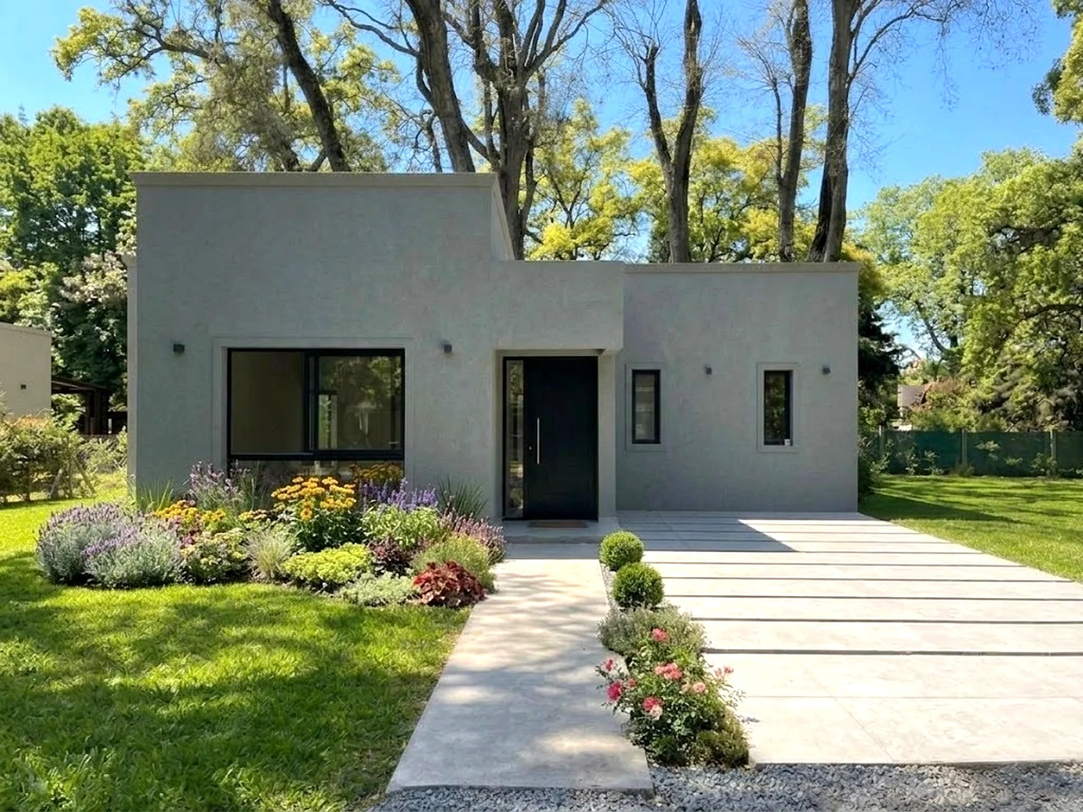
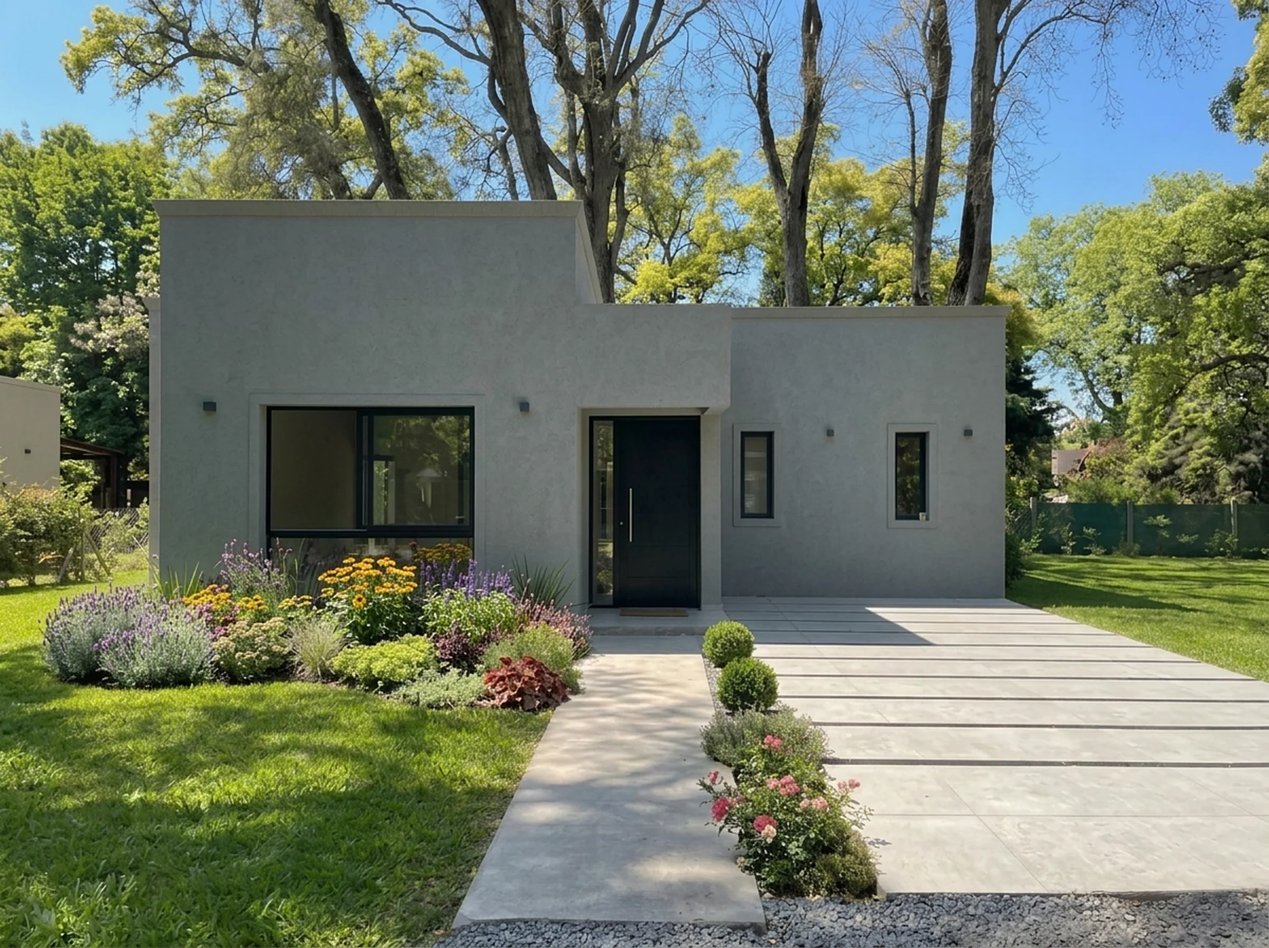
Portada nueva a pantalla completa, foto del equipo con cargos y fotos más nítidas
- Portada: frase en Montserrat fina, 7 fotos que se deslizan al costado y quedan fijas mientras sube la sección de proyectos
- Quiénes somos: foto de los tres fundadores con nombres y cargos
- UF 4 y UF 8: frentes en alta resolución

diff --git a/css/styles.css b/css/styles.css
@@ -51,6 +51,7 @@ body {
     color: var(--ink);
     line-height: 1.6;
     overflow-x: hidden;
+    overflow-x: clip;   /* corta lo que sobresale sin volverse contenedor de scroll (si no, las fotos fijas de la portada no funcionan) */
     -webkit-font-smoothing: antialiased;
 }
 h1, h2, h3, h4 {
@@ -216,9 +217,22 @@ button { font-family: inherit; }
 
 /* === PORTADA === */
 .hero { position: relative; min-height: min(92vh, 900px); display: flex; align-items: flex-end; color: #fff; overflow: hidden; background: var(--night); }
+/* el inicio ocupa la pantalla entera y queda quieto (fotos y texto): al bajar, la sección de
+   proyectos sube por encima y lo va tapando, así se siguen viendo las casas un tramo más */
+.hero-home { position: sticky; top: 0; z-index: 0; min-height: 0; height: 100vh; height: 100svh; padding: 0; }
+.inicio-capas > .section-proyectos { position: relative; z-index: 1; background: var(--paper); border-radius: 22px 22px 0 0; box-shadow: 0 -18px 40px rgba(10, 10, 10, .22); }
 .hero-bg, .hero-slide { position: absolute; inset: 0; background-size: cover; background-position: center 42%; }
-.hero-slide { opacity: 0; transition: opacity 1.4s ease; }
+.hero-slide { opacity: 0; transition: opacity 1.6s ease; filter: var(--tono, none); }   /* --tono: iguala la luz de cada foto para que la portada se vea pareja, como un video */
 .hero-slide.active { opacity: 1; }
+/* portada del inicio: cada foto se desliza despacio hacia el costado mientras se ve, como un video,
+   y cruza a la siguiente (el script le pone la clase "mov" en su turno); una va y la otra vuelve */
+@media (prefers-reduced-motion: no-preference) {
+    .hero-home .hero-slide { inset: 0 -3%; will-change: transform; }
+    .hero-home .hero-slide.mov { animation: hero-pan 8s linear forwards; }
+    .hero-home .hero-slide.mov:nth-child(even) { animation-name: hero-pan-vuelta; }
+}
+@keyframes hero-pan { from { transform: translateX(-2.2%); } to { transform: translateX(2.2%); } }
+@keyframes hero-pan-vuelta { from { transform: translateX(2.2%); } to { transform: translateX(-2.2%); } }
 .hero-overlay { position: absolute; inset: 0; background: linear-gradient(90deg, rgba(10,10,10,.5) 0%, rgba(10,10,10,.15) 45%, rgba(10,10,10,0) 70%), linear-gradient(180deg, rgba(10,10,10,.45) 0%, rgba(10,10,10,.05) 30%, rgba(10,10,10,.25) 55%, rgba(10,10,10,.85) 100%); }
 /* portada del barrio: la vista aérea es muy clara (calle de piedras), el velo es más fuerte del lado del texto */
 .hero-aereo .hero-overlay { background: linear-gradient(90deg, rgba(10,10,10,.78) 0%, rgba(10,10,10,.5) 45%, rgba(10,10,10,.12) 80%), linear-gradient(180deg, rgba(10,10,10,.5) 0%, rgba(10,10,10,.1) 30%, rgba(10,10,10,.3) 60%, rgba(10,10,10,.85) 100%); }
@@ -229,6 +243,8 @@ button { font-family: inherit; }
 .hero-tag::before { content: ''; width: 28px; height: 2px; background: currentColor; }
 .hero-title { font-size: clamp(42px, 8vw, 108px); font-weight: 800; letter-spacing: -.02em; line-height: .95; text-transform: uppercase; margin-bottom: 26px; }
 .hero-title em { color: rgba(255,255,255,.62); }
+/* portada del inicio: una sola frase en tamaño medio, como titular (sin mayúsculas) */
+.hero-title.hero-frase { max-width: 18em; font-size: clamp(25px, 3.5vw, 48px); font-weight: 400; letter-spacing: -.01em; line-height: 1.18; text-transform: none; margin-bottom: 34px; }
 .hero-sub { font-size: clamp(16px, 1.6vw, 19px); color: #ECEBE8; max-width: 46ch; margin-bottom: 34px; }
 .hero-btns { display: flex; gap: 12px; flex-wrap: wrap; }
 .hero .btn-primary { background: #fff; color: var(--ink); }
@@ -313,10 +329,17 @@ section { padding: 110px 0; }
 
 /* Nosotros */
 /* arriba el título a la izquierda y el texto a la derecha; abajo la foto del equipo a todo el ancho y los datos */
-.nosotros-foto { position: relative; margin: 44px 0 0; aspect-ratio: 5 / 2; border-radius: var(--radius); overflow: hidden; background: var(--sand); }
-.nosotros-foto img { width: 100%; height: 100%; object-fit: cover; }
+.nosotros-foto { position: relative; margin: 44px 0 0; aspect-ratio: 2 / 1; border-radius: var(--radius); overflow: hidden; background: var(--sand); }
+.nosotros-foto img { width: 100%; height: 100%; object-fit: cover; object-position: 50% 30%; }
+/* nombres debajo de la foto: cada columna queda centrada debajo de la persona (izquierda, centro, derecha) */
+.equipo { list-style: none; display: grid; grid-template-columns: repeat(3, minmax(0, 1fr)); padding: 24px 14% 6px; text-align: center; }
+.equipo b { display: block; font: 600 clamp(17px, 1.7vw, 22px)/1.25 var(--f-display); color: var(--ink); }
+.equipo span { display: block; margin-top: 6px; font-size: 13.5px; color: var(--muted); }
+.equipo span + span { margin-top: 2px; }
 .foto-pendiente { position: absolute; inset: 14px; display: grid; place-content: center; justify-items: center; gap: 12px; border: 1.5px dashed rgba(107, 105, 100, .4); border-radius: var(--radius); color: var(--muted); font: 600 12px var(--f-label); letter-spacing: .16em; text-transform: uppercase; }
-.nosotros-grid { display: grid; grid-template-columns: minmax(0, 1fr) minmax(0, 1fr); gap: 56px; align-items: end; }
+.section-nosotros { padding-top: 40px; }
+.nosotros-grid { display: grid; grid-template-columns: minmax(0, 1fr) minmax(0, 1fr); gap: 56px; align-items: start; }
+.nosotros-body { padding-top: 30px; }   /* el texto arranca a la altura del título, no del rótulo */
 .nosotros-head h2 { font-size: clamp(34px, 4.2vw, 52px); margin-bottom: 0; }
 .nosotros-body p { color: var(--muted); font-size: 17px; margin-bottom: 16px; max-width: 58ch; }
 .nosotros-body p:last-child { margin-bottom: 0; }
@@ -871,6 +894,10 @@ section { padding: 110px 0; }
     .fg-row { grid-template-columns: minmax(0, 1fr); }
     .nosotros-stats, .pc-facts { grid-template-columns: minmax(0, 1fr); }
     .nosotros-foto { aspect-ratio: 3 / 2; margin-top: 32px; }
+    .nosotros-body { padding-top: 0; }
+    .equipo { padding: 18px 0 4px; gap: 8px; }
+    .equipo b { font-size: 15px; }
+    .equipo span { font-size: 12px; line-height: 1.35; }
     .stat-item + .stat-item, .pc-facts div + div { padding-left: 0; border-left: 0; border-top: 1px solid var(--rule); }
     .pc-facts div { padding: 12px 0; }
     .viewer-stage { padding: 0 6px; }

diff --git a/index.html b/index.html
@@ -121,20 +121,22 @@
         </div>
     </nav>
 
-    <!-- PORTADA -->
+    <!-- PORTADA (queda fija y la sección de proyectos sube por encima) -->
+    <div class="inicio-capas">
     <section class="hero hero-home" id="inicio">
         <div class="hero-slideshow">
             <div class="hero-slide active" style="background-image:url('images/uf10/frente-hd.webp')"></div>
-            <div class="hero-slide" style="background-image:url('images/uf8/frente-hd.webp')"></div>
-            <div class="hero-slide" style="background-image:url('images/uf10/casa%20afuera%20lateral.webp')"></div>
-            <div class="hero-slide" style="background-image:url('images/uf7/frente-dia.webp')"></div>
+            <div class="hero-slide" data-bg="images/uf10/living%201.webp" style="--tono:brightness(.84) contrast(1.06)"></div>
+            <div class="hero-slide" data-bg="images/uf8/frente-hd.webp"></div>
+            <div class="hero-slide" data-bg="images/uf7/estar.webp" style="--tono:brightness(.86) contrast(1.06)"></div>
+            <div class="hero-slide" data-bg="images/uf4/frente-hd.webp" style="--tono:brightness(.9) contrast(1.05) saturate(1.1)"></div>
+            <div class="hero-slide" data-bg="images/uf10/cocina%201.webp"></div>
+            <div class="hero-slide" data-bg="images/uf7/frente-noche.webp" style="--tono:brightness(1.18)"></div>
         </div>
         <div class="hero-overlay"></div>
         <div class="container hero-container">
             <div class="hero-content">
-                <span class="hero-tag">San Miguel · Buenos Aires</span>
-                <h1 class="hero-title">Espacios<br><em>para vivir</em></h1>
-                <p class="hero-sub">Desarrollamos viviendas de calidad en entornos naturales, pensadas para familias que buscan una vida mejor.</p>
+                <h1 class="hero-title hero-frase">Desarrollamos casas y barrios cerrados integrando diseño y naturaleza.</h1>
                 <div class="hero-btns">
                     <a href="#proyectos" class="btn-primary">Ver proyectos</a>
                     <a href="#contacto" class="btn-ghost">Contactanos</a>
@@ -183,7 +185,7 @@
             </div>
         </div>
     </section>
-
+    </div>
 
     <!-- NOSOTROS -->
     <section class="section-nosotros" id="nosotros">
@@ -198,11 +200,14 @@
                     <p>Nuestro trabajo se basa en la transparencia, la calidad constructiva y el cumplimiento de cada etapa. Proyectamos viviendas de arquitectura contemporánea en entornos verdes consolidados, que ofrecen privacidad y confort sin resignar ubicación ni infraestructura.</p>
                 </div>
             </div>
-            <!-- FOTO DEL EQUIPO (horizontal, de los 3): cuando esté, reemplazar el div .foto-pendiente por
-                 <img src="images/nosotros/equipo.webp" alt="..." width="..." height="..." loading="lazy"> -->
             <figure class="nosotros-foto fade-in">
-                <div class="foto-pendiente"><svg width="34" height="34" viewBox="0 0 24 24" fill="none" stroke="currentColor" stroke-width="1.5" stroke-linecap="round" stroke-linejoin="round" aria-hidden="true"><path d="M14.5 4h-5L7 7H4a2 2 0 0 0-2 2v9a2 2 0 0 0 2 2h16a2 2 0 0 0 2-2V9a2 2 0 0 0-2-2h-3l-2.5-3z"/><circle cx="12" cy="13" r="3.5"/></svg><span>Foto del equipo</span></div>
+                <img src="images/nosotros/equipo.webp" alt="Theo, Pedro y Francisco Trillini, fundadores de FTP Desarrollos" width="1500" height="750" loading="lazy">
             </figure>
+            <ul class="equipo fade-in">
+                <li><b>Theo Trillini</b><span>Gerente de Compras y Mkt Digital</span><span>Cofundador de FTP Desarrollos</span></li>
+                <li><b>Pedro Trillini</b><span>Gerente Comercial y de Nuevos Negocios</span><span>Cofundador de FTP Desarrollos</span></li>
+                <li><b>Francisco Trillini</b><span>Gerente de Administración y Finanzas</span><span>Cofundador de FTP Desarrollos</span></li>
+            </ul>
             <div class="nosotros-stats fade-in">
                 <div class="stat-item"><span class="stat-num">3</span><span class="stat-label">Hermanos fundadores</span></div>
                 <div class="stat-item"><span class="stat-num">2</span><span class="stat-label">Arquitectos en todas nuestras obras</span></div>

diff --git a/js/script.js b/js/script.js
@@ -63,14 +63,24 @@ window.addEventListener('scroll', () => {
 });
 
 // --- Hero slideshow ---
+// cada foto entra con un fundido y se desliza hacia el costado mientras se ve (clase "mov");
+// las fotos se cargan de a una, justo antes de su turno (data-bg), para que la portada abra rápido
 const slides = document.querySelectorAll('.hero-slide');
 if (slides.length > 0) {
     let current = 0;
+    const cargar = s => { if (s.dataset.bg) { s.style.backgroundImage = `url('${s.dataset.bg}')`; delete s.dataset.bg; } };
+    slides[0].classList.add('mov');
+    cargar(slides[1 % slides.length]);
     setInterval(() => {
-        slides[current].classList.remove('active');
+        const antes = slides[current];
         current = (current + 1) % slides.length;
-        slides[current].classList.add('active');
-    }, 5000);
+        const ahora = slides[current];
+        cargar(ahora);
+        ahora.classList.add('active', 'mov');
+        antes.classList.remove('active');
+        setTimeout(() => antes.classList.remove('mov'), 1800);   // sigue moviéndose mientras se desvanece
+        cargar(slides[(current + 1) % slides.length]);
+    }, 6000);
 }
 
 // --- Hamburger ---
